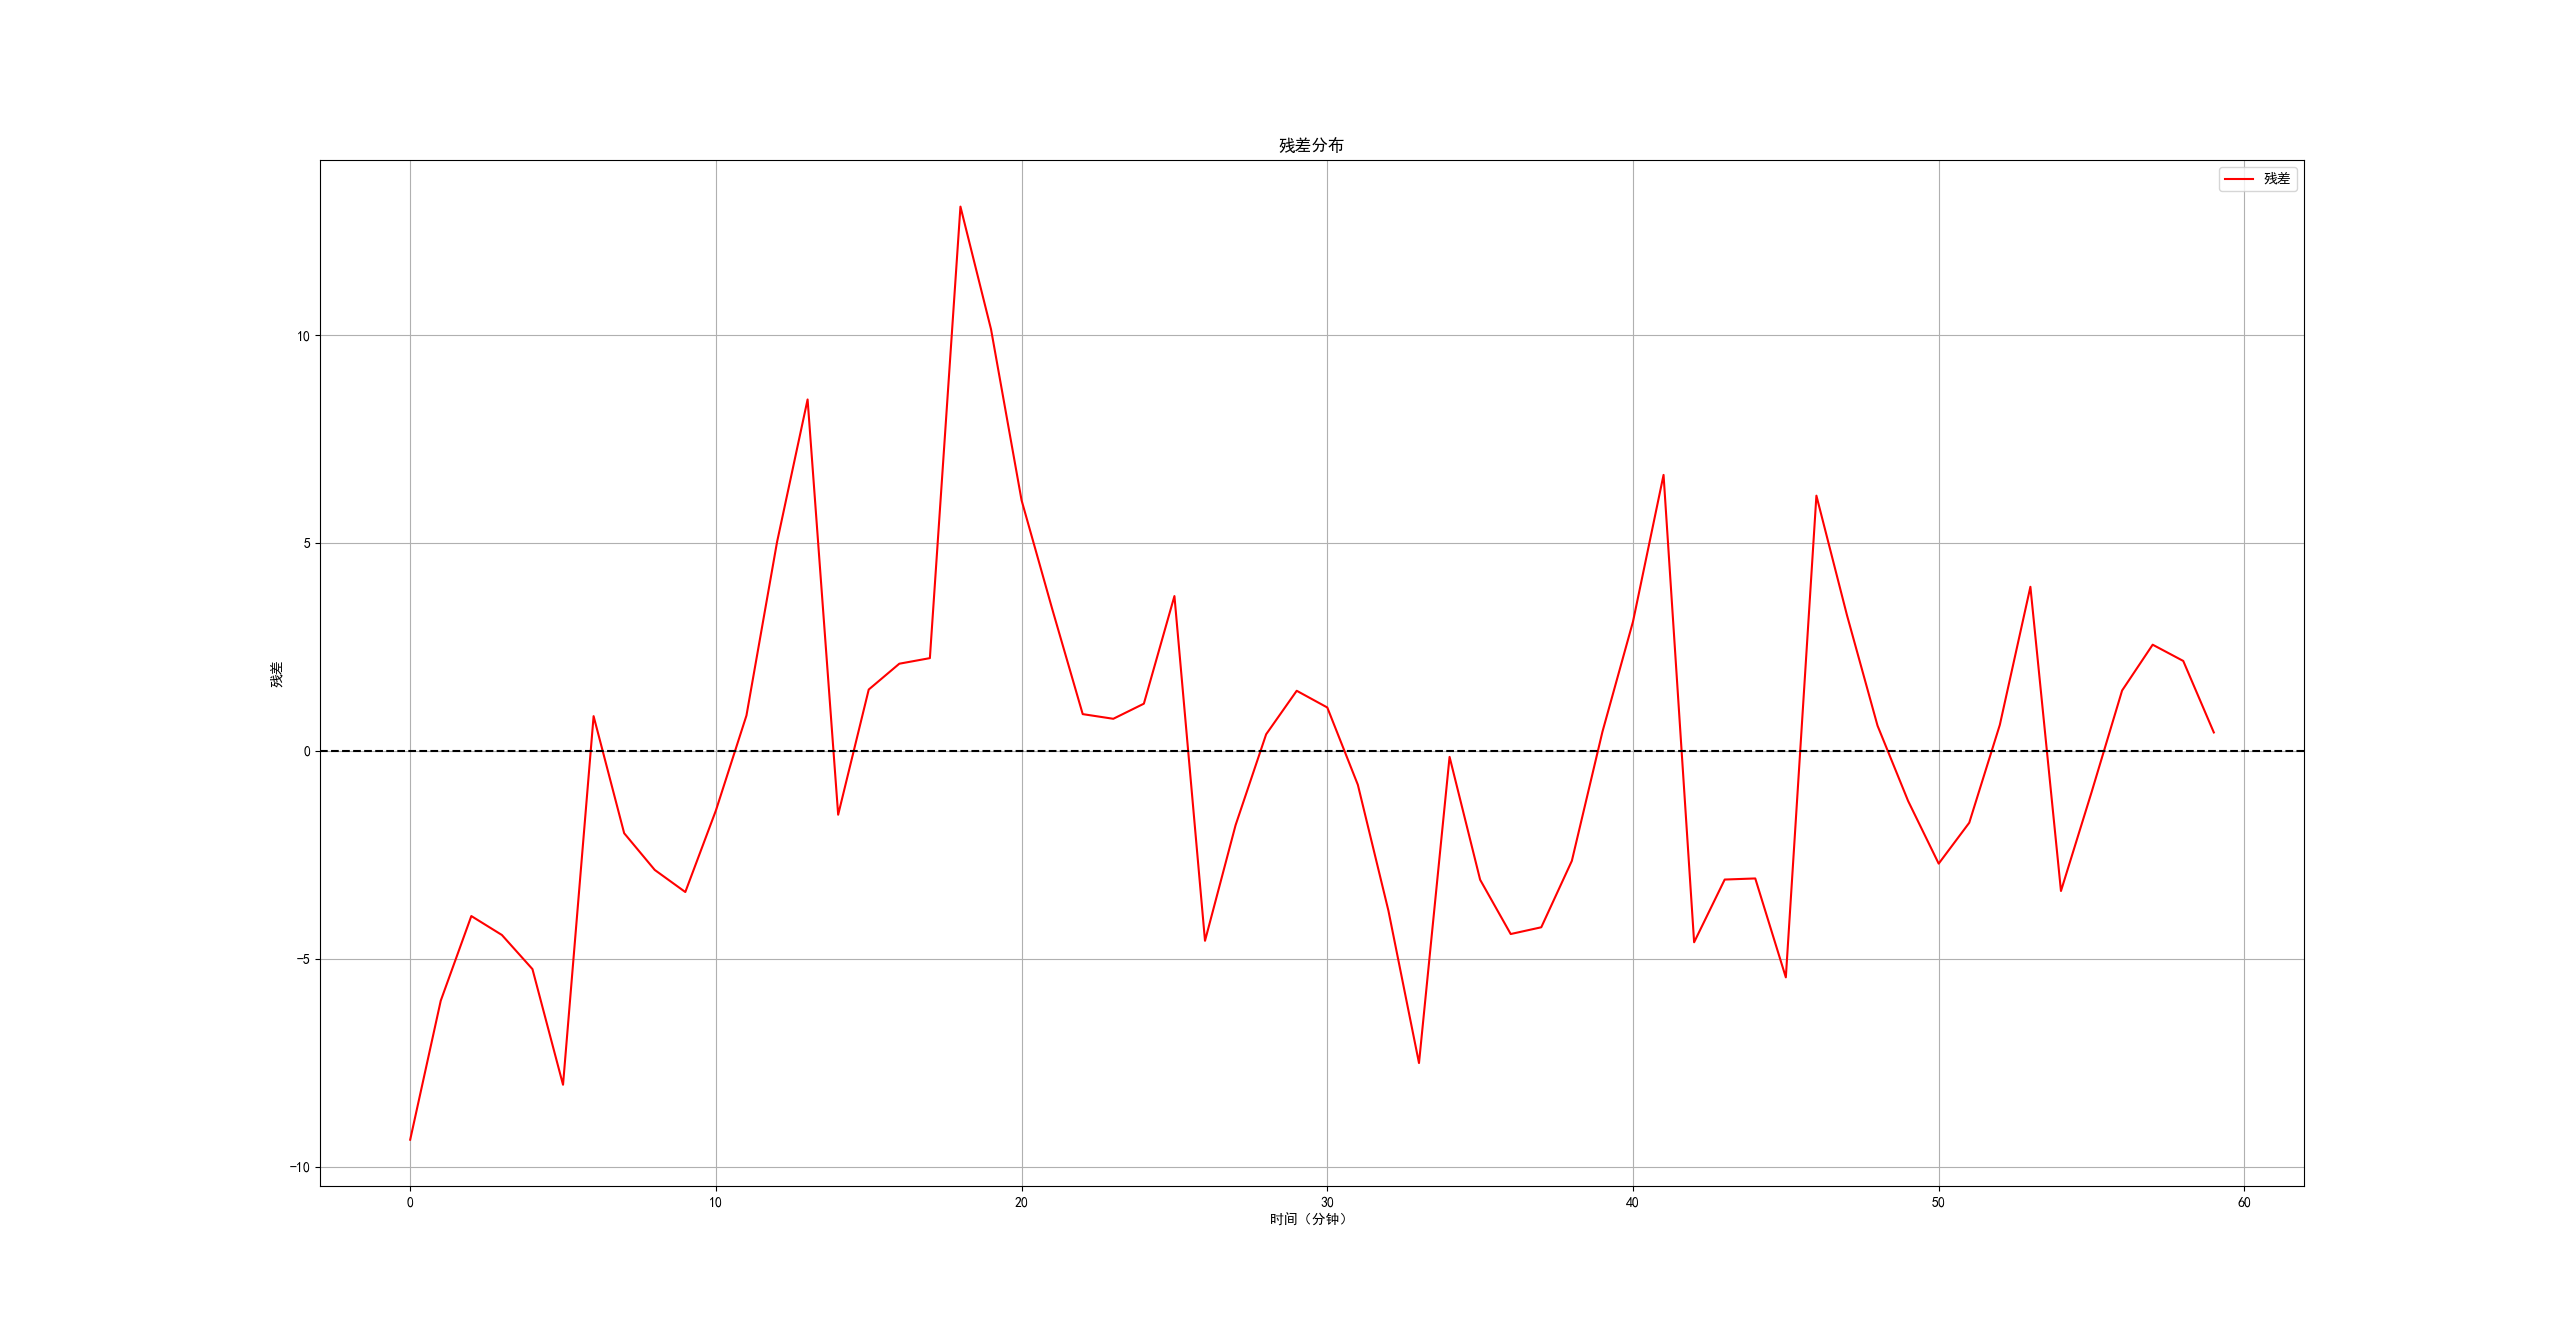
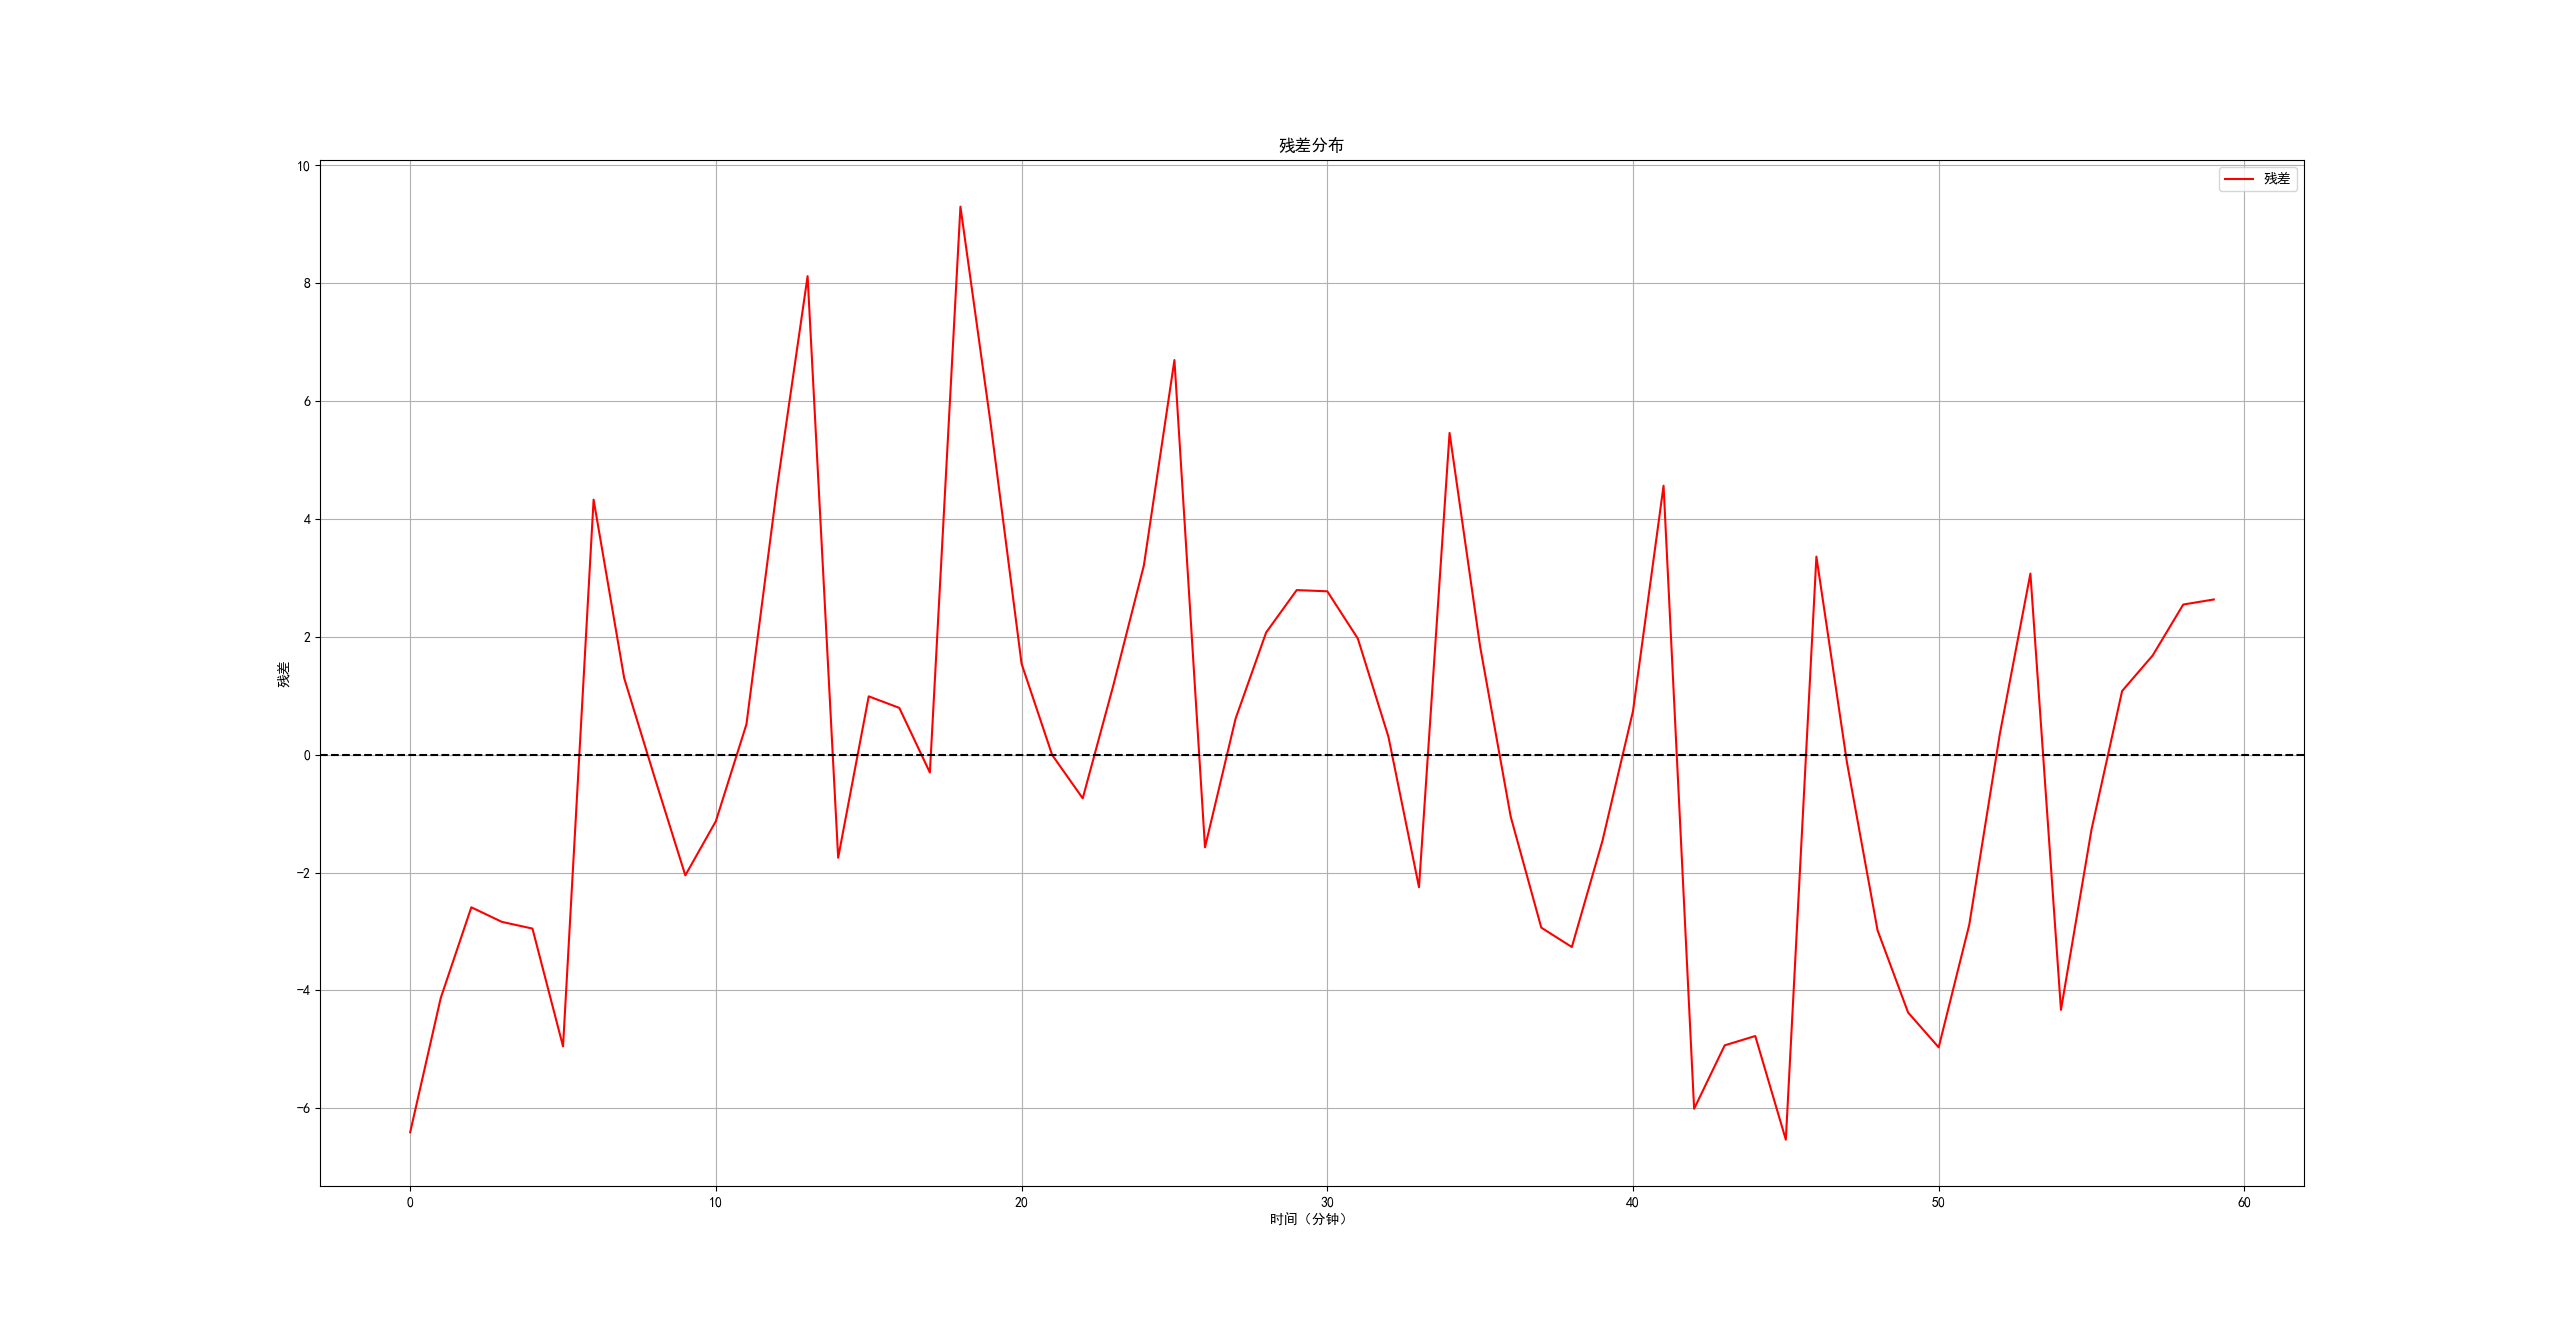
optimization(51MCM/P2): 更新模型结果和参数
- 更新了最终最优参数和最小误差
- 调整了各支路的流量值和车流量函数表达式
- 更新了相关的图像文件

diff --git a/51MCM/P2/result.md b/51MCM/P2/result.md
@@ -1,17 +1,17 @@
 # Result
 
-最终最优参数: [ 6.72933215  0.5        14.61404093  0.25823719  0.42360999 19.58359414
- 35.         19.26996678  1.9828333  27.81087705  6.23048838 -1.95005305
- -4.93210687 -2.40756975 -4.86165944 -4.10985005  1.56290277 -9.99891197
-  1.32534232  9.99075269  6.75925683 -2.01496215 -5.17083443 -7.52261056
-  3.64388412 -2.52170242  3.51917506 10.         -0.76067859 -3.71954079
- -7.70706012]
-最终最小误差: 419.45780263177375
-7:30 各支路流量值: {'Branch1': 6, 'Branch2': 21, 'Branch3': 25.937743960255176, 'Branch4': 2.0618108719983947}
-8:30 各支路流量值: {'Branch1': 6, 'Branch2': 28, 'Branch3': 34.40994371996591, 'Branch4': 4.02270010710564}
+最终最优参数: [ 7.44545006  0.45633088 19.99992969  0.29603826  0.4441664  19.16074273
+ 35.         18.11412071  3.         28.05434488  0.44243162 -2.25933006
+ -5.46731109  1.03022405 -2.31263747 -4.31401267  1.42501864  1.04955332
+  1.2257234   3.61938154 -9.11532966 -0.73166096 10.          6.36736293
+ -9.99007802  4.48877504 -4.59002377 -7.93530965 -0.06737906 -1.96872827
+  9.99448159]
+最终最小误差: 377.48129891961145
+7:30 各支路流量值: {'Branch1': 7, 'Branch2': 25, 'Branch3': 25.823238680664293, 'Branch4': -5.31347685022345}
+8:30 各支路流量值: {'Branch1': 7, 'Branch2': 32, 'Branch3': 34.7065666090987, 'Branch4': -2.8730584803579067}
 
 --- 各支路车流量函数表达式 ---
-支路1: f(t) = $6.73 （稳定）$
-支路2: f(t) = $\begin{cases} 0.50t + 14.61, & t < 24 \\ 26.61, & 24 \leq t < 37 \\ -0.26t + 36.17, & t \geq 37 \end{cases}$
-支路3: f(t) = $\begin{cases} 0.42t + 19.58, & t < 35 \\ 19.27, & t \geq 35 \end{cases}$
-支路4: f(t) = $6.23 + -1.95 \cos\left(\frac{2\pi 1 t}{27.810877050770024}\right) + -2.41 \sin\left(\frac{2\pi 1 t}{27.810877050770024}\right) + -4.93 \cos\left(\frac{2\pi 2 t}{27.810877050770024}\right) + -4.86 \sin\left(\frac{2\pi 2 t}{27.810877050770024}\right)$
+支路1: $f(t) = 7.45 （稳定）$
+支路2: $f(t) = \begin{cases} 0.46t + 20.00, & t < 24 \\ 30.95, & 24 \leq t < 37 \\ -0.30t + 41.91, & t \geq 37 \end{cases}$
+支路3: $f(t) = \begin{cases} 0.44t + 19.16, & t < 35 \\ 18.11, & t \geq 35 \end{cases}$
+支路4: $f(t) = 0.44 + -2.26 \cos\left(\frac{2\pi 1 t}{28.054344875606454}\right) + -2.31 \sin\left(\frac{2\pi 1 t}{28.054344875606454}\right) + -5.47 \cos\left(\frac{2\pi 2 t}{28.054344875606454}\right) + -4.31 \sin\left(\frac{2\pi 2 t}{28.054344875606454}\right) + 1.03 \cos\left(\frac{2\pi 3 t}{28.054344875606454}\right) + 1.43 \sin\left(\frac{2\pi 3 t}{28.054344875606454}\right)$
